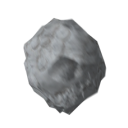
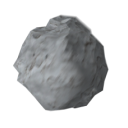
Deleted unwanted assets

diff --git a/game/js/core.js b/game/js/core.js
@@ -4,7 +4,7 @@ var ctx;
 
 //Const
 var maxBackgroundsIMG = 15;
-var maxAsteroidsIMG = 64; 
+var maxAsteroidsIMG = 10; 
 
 //Images
 var falcon, falcon2;
